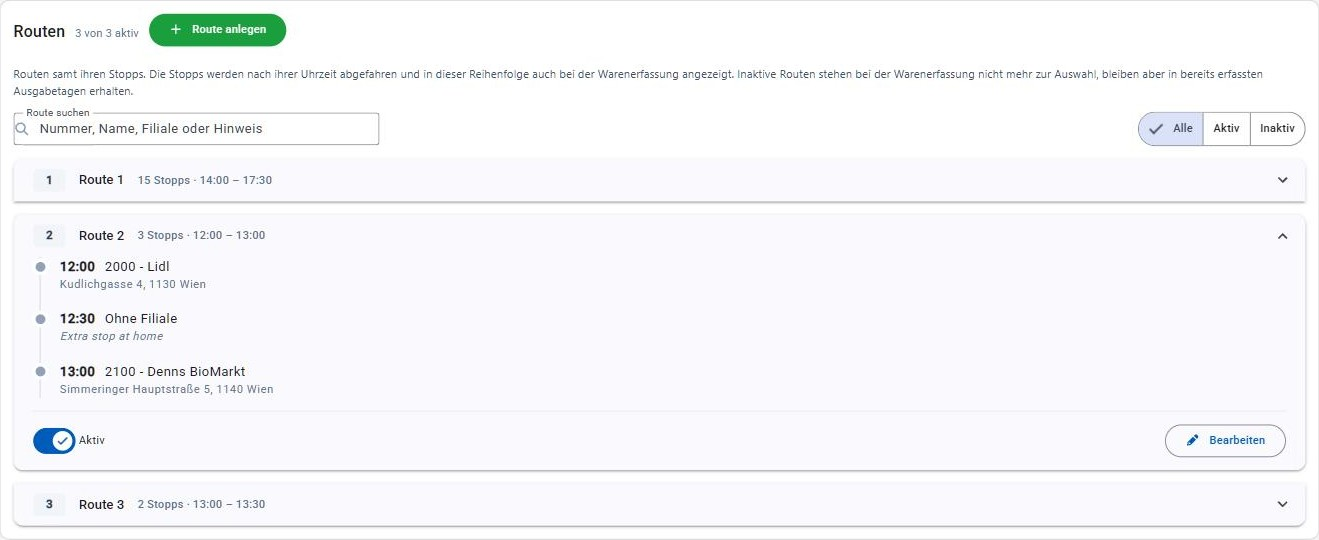
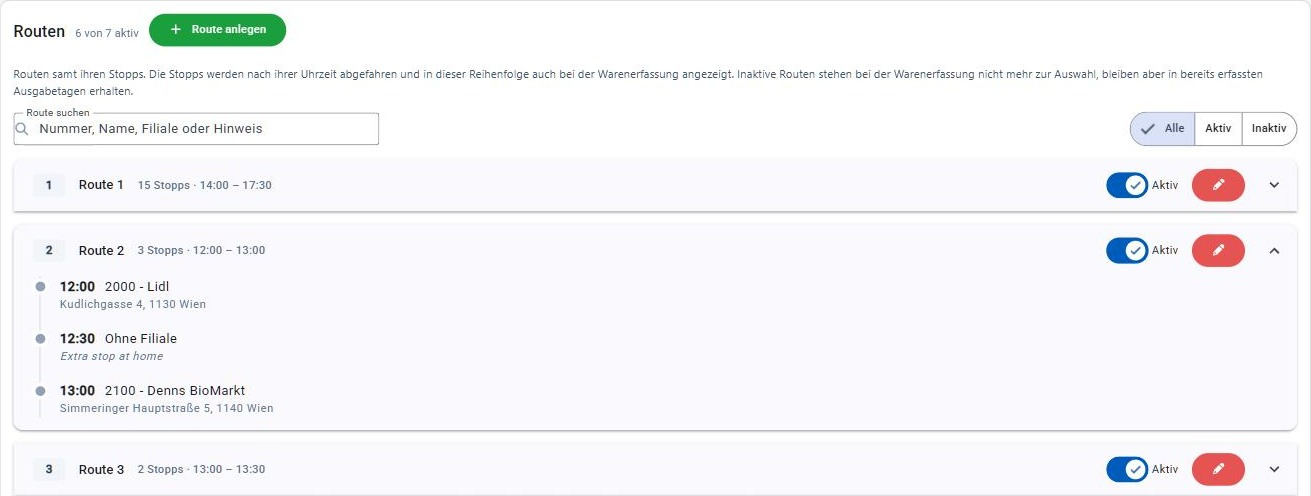
feat(settings): move the aktiv toggle and edit button into the list header
Both actions were in the expanded panel's action row, which meant expanding a
route or shop just to switch or edit it. They now sit at the right end of the
row itself, so the panel only has to be opened to read the details; the edit
button uses the filled red styling of the other maintenance screens.

The header treats any click or keydown inside it as "toggle the panel", so the
two controls are wrapped in a stopPropagation container.

diff --git a/frontend/src/main/webapp/src/app/modules/settings/views/routes/settings-routes.component.html b/frontend/src/main/webapp/src/app/modules/settings/views/routes/settings-routes.component.html
@@ -60,6 +60,20 @@
                 @if (!view.route.enabled) {
                   <span class="badge badge-danger" testid="routes-inactive-badge">Inaktiv</span>
                 }
+                <!-- both actions stay reachable without expanding the route first - the panel
+                     header would otherwise swallow the click and toggle the panel instead -->
+                <span class="ms-auto me-2 flex items-center gap-4" (click)="$event.stopPropagation()"
+                      (keydown)="$event.stopPropagation()">
+                  <mat-slide-toggle [checked]="view.route.enabled" [attr.testid]="'routes-enabled-toggle-' + i"
+                                    (change)="onEnabledToggled(view.route, $event)">
+                    Aktiv
+                  </mat-slide-toggle>
+                  <button matButton="filled" class="button-danger" [attr.testid]="'editRouteButton-' + i"
+                          [disabled]="!view.route.enabled" aria-label="Route bearbeiten"
+                          (click)="editRoute(view.route)">
+                    <fa-icon [icon]="faPencil"></fa-icon>
+                  </button>
+                </span>
               </div>
             </mat-panel-title>
           </mat-expansion-panel-header>
@@ -93,22 +107,11 @@
             <p class="text-sm italic text-slate-500">Keine Stopps hinterlegt</p>
           }
 
-          <div class="mt-4 flex flex-wrap items-center justify-between gap-3 border-t border-slate-200 pt-4">
-            <mat-slide-toggle [checked]="view.route.enabled" [attr.testid]="'routes-enabled-toggle-' + i"
-                              (change)="onEnabledToggled(view.route, $event)">
-              Aktiv
-            </mat-slide-toggle>
-            <div class="flex flex-wrap items-center gap-3">
-              @if (!view.route.enabled) {
-                <span class="text-sm text-slate-500">Zum Bearbeiten zuerst aktivieren</span>
-              }
-              <button matButton="outlined" [attr.testid]="'editRouteButton-' + i"
-                      [disabled]="!view.route.enabled" (click)="editRoute(view.route)">
-                <fa-icon [icon]="faPencil" class="me-2"></fa-icon>
-                Bearbeiten
-              </button>
-            </div>
-          </div>
+          @if (!view.route.enabled) {
+            <p class="mt-4 border-t border-slate-200 pt-4 text-sm text-slate-500">
+              Zum Bearbeiten zuerst aktivieren
+            </p>
+          }
         </mat-expansion-panel>
       } @empty {
         @if (loaded()) {

diff --git a/frontend/src/main/webapp/src/app/modules/settings/views/shops/settings-shops.component.html b/frontend/src/main/webapp/src/app/modules/settings/views/shops/settings-shops.component.html
@@ -59,6 +59,20 @@
                 @if (!view.shop.enabled) {
                   <span class="badge badge-danger" testid="shops-inactive-badge">Inaktiv</span>
                 }
+                <!-- both actions stay reachable without expanding the shop first - the panel
+                     header would otherwise swallow the click and toggle the panel instead -->
+                <span class="ms-auto me-2 flex items-center gap-4" (click)="$event.stopPropagation()"
+                      (keydown)="$event.stopPropagation()">
+                  <mat-slide-toggle [checked]="view.shop.enabled" [attr.testid]="'shops-enabled-toggle-' + i"
+                                    (change)="onEnabledToggled(view.shop, $event)">
+                    Aktiv
+                  </mat-slide-toggle>
+                  <button matButton="filled" class="button-danger" [attr.testid]="'editShopButton-' + i"
+                          [disabled]="!view.shop.enabled" aria-label="Filiale bearbeiten"
+                          (click)="editShop(view.shop)">
+                    <fa-icon [icon]="faPencil"></fa-icon>
+                  </button>
+                </span>
               </div>
             </mat-panel-title>
           </mat-expansion-panel-header>
@@ -102,22 +116,11 @@
             </div>
           }
 
-          <div class="mt-4 flex flex-wrap items-center justify-between gap-3 border-t border-slate-200 pt-4">
-            <mat-slide-toggle [checked]="view.shop.enabled" [attr.testid]="'shops-enabled-toggle-' + i"
-                              (change)="onEnabledToggled(view.shop, $event)">
-              Aktiv
-            </mat-slide-toggle>
-            <div class="flex flex-wrap items-center gap-3">
-              @if (!view.shop.enabled) {
-                <span class="text-sm text-slate-500">Zum Bearbeiten zuerst aktivieren</span>
-              }
-              <button matButton="outlined" [attr.testid]="'editShopButton-' + i"
-                      [disabled]="!view.shop.enabled" (click)="editShop(view.shop)">
-                <fa-icon [icon]="faPencil" class="me-2"></fa-icon>
-                Bearbeiten
-              </button>
-            </div>
-          </div>
+          @if (!view.shop.enabled) {
+            <p class="mt-4 border-t border-slate-200 pt-4 text-sm text-slate-500">
+              Zum Bearbeiten zuerst aktivieren
+            </p>
+          }
         </mat-expansion-panel>
       } @empty {
         @if (loaded()) {

diff --git a/frontend/src/main/webapp/cypress/e2e/settings-routes.cy.ts b/frontend/src/main/webapp/cypress/e2e/settings-routes.cy.ts
@@ -32,10 +32,6 @@ describe('Settings - Routes', () => {
     return cy.byTestId('routes-list').contains('mat-expansion-panel', name);
   }
 
-  function expandRoute(name: string) {
-    routePanel(name).find('mat-expansion-panel-header').click();
-  }
-
   it('lists routes with their stop summary', () => {
     cy.byTestId('routes-list').should('exist');
     cy.byTestId('routes-row-0').should('contain.text', 'Route 1').and('contain.text', 'Stopps');
@@ -90,8 +86,9 @@ describe('Settings - Routes', () => {
       createRoute(name, '90.3', ['10:00', '10:30']);
       cy.contains('.toast-message', 'erstellt').should('be.visible');
 
-      expandRoute(name);
+      // the edit button sits in the collapsed header, so editing needs no expanding
       routePanel(name).find('[testid^="editRouteButton-"]').click();
+      cy.byTestId('route-edit-dialog').should('be.visible');
       cy.byTestId('route-name-input').should('be.visible').clear().type(newName);
       cy.byTestId('route-stop-remove-button-1').click();
       cy.byTestId('route-save-button').click();
@@ -108,7 +105,7 @@ describe('Settings - Routes', () => {
       createRoute(name, '90.4', ['11:00']);
       cy.contains('.toast-message', 'erstellt').should('be.visible');
 
-      expandRoute(name);
+      // the toggle sits in the collapsed header next to the edit button
       routePanel(name).find('[testid^="routes-enabled-toggle-"]').click();
       cy.contains('.toast-message', 'geändert').should('be.visible');
 

diff --git a/frontend/src/main/webapp/cypress/e2e/settings-shops.cy.ts b/frontend/src/main/webapp/cypress/e2e/settings-shops.cy.ts
@@ -33,10 +33,6 @@ describe('Settings - Shops', () => {
     return cy.byTestId('shops-list').contains('mat-expansion-panel', name);
   }
 
-  function expandShop(name: string) {
-    shopPanel(name).find('mat-expansion-panel-header').click();
-  }
-
   it('lists shops with their address and unit', () => {
     cy.byTestId('shops-list').should('exist');
     cy.byTestId('shops-row-0').should('contain.text', 'Billa').and('contain.text', 'Kisten');
@@ -92,8 +88,9 @@ describe('Settings - Shops', () => {
       createShop(name, shopNumber(randomId));
       cy.contains('.toast-message', 'erstellt').should('be.visible');
 
-      expandShop(name);
+      // the edit button sits in the collapsed header, so editing needs no expanding
       shopPanel(name).find('[testid^="editShopButton-"]').click();
+      cy.byTestId('shop-edit-dialog').should('be.visible');
       cy.byTestId('shop-name-input').should('be.visible').clear().type(newName);
       cy.byTestId('shop-save-button').click();
 
@@ -109,7 +106,7 @@ describe('Settings - Shops', () => {
       createShop(name, shopNumber(randomId));
       cy.contains('.toast-message', 'erstellt').should('be.visible');
 
-      expandShop(name);
+      // the toggle sits in the collapsed header next to the edit button
       shopPanel(name).find('[testid^="shops-enabled-toggle-"]').click();
       cy.contains('.toast-message', 'geändert').should('be.visible');
 

diff --git a/docs/userguide/einstellungen.md b/docs/userguide/einstellungen.md
@@ -76,7 +76,7 @@ Die **Nummer** muss eindeutig sein; ist sie bereits vergeben, erscheint beim Spe
 
 ![Filialen](images/einstellungen-filialen.jpg)
 
-In der aufgeklappten Zeile wird die Filiale über den Schalter **Aktiv** aktiviert/deaktiviert und über **Bearbeiten** geändert. Eine deaktivierte Filiale steht in der Warenerfassung nicht mehr zur Auswahl, bleibt aber in bereits erfassten Ausgabetagen erhalten — deshalb gibt es bewusst keine Löschfunktion. Sie ist in der Liste als "Inaktiv" gekennzeichnet und kann erst wieder bearbeitet werden, nachdem sie reaktiviert wurde (der Bearbeiten-Button ist so lange deaktiviert).
+Rechts in jeder Zeile stehen der Schalter **Aktiv** zum Aktivieren/Deaktivieren und der **Stift-Button**, der den Bearbeiten-Dialog öffnet — dafür muss die Filiale nicht aufgeklappt werden. Eine deaktivierte Filiale steht in der Warenerfassung nicht mehr zur Auswahl, bleibt aber in bereits erfassten Ausgabetagen erhalten — deshalb gibt es bewusst keine Löschfunktion. Sie ist in der Liste als "Inaktiv" gekennzeichnet und kann erst wieder bearbeitet werden, nachdem sie reaktiviert wurde (der Bearbeiten-Button ist so lange deaktiviert).
 
 <a id="routen"></a>
 
@@ -88,7 +88,7 @@ Jede Route ist eine eigene Zeile, die sich aufklappen lässt: zugeklappt zeigt s
 
 ![Routen](images/einstellungen-routen.jpg)
 
-In der aufgeklappten Zeile wird die Route über den Schalter **Aktiv** aktiviert/deaktiviert und über **Bearbeiten** geändert. Im Bearbeiten-Dialog wird über **Stopp hinzufügen** je Stopp eine **Uhrzeit**, eine **Filiale** und eine **Beschreibung** erfasst; das Papierkorb-Symbol entfernt einen Stopp wieder. Die Uhrzeit bestimmt die Reihenfolge der Stopps — sowohl in der Routenliste als auch in der [Warenerfassung](logistik.md); eine eigene Sortierung per Drag & Drop gibt es hier daher nicht. Zur Auswahl stehen alle aktiven [Filialen](#filialen); mit "Keine Filiale" lässt sich auch ein Stopp ohne Warenabholung (z. B. eine Pause) eintragen — er wird in der Liste als "Ohne Filiale" geführt.
+Rechts in jeder Zeile stehen — wie bei den [Filialen](#filialen) — der Schalter **Aktiv** und der **Stift-Button**, der den Bearbeiten-Dialog öffnet; dafür muss die Route nicht aufgeklappt werden. Im Bearbeiten-Dialog wird über **Stopp hinzufügen** je Stopp eine **Uhrzeit**, eine **Filiale** und eine **Beschreibung** erfasst; das Papierkorb-Symbol entfernt einen Stopp wieder. Die Uhrzeit bestimmt die Reihenfolge der Stopps — sowohl in der Routenliste als auch in der [Warenerfassung](logistik.md); eine eigene Sortierung per Drag & Drop gibt es hier daher nicht. Zur Auswahl stehen alle aktiven [Filialen](#filialen); mit "Keine Filiale" lässt sich auch ein Stopp ohne Warenabholung (z. B. eine Pause) eintragen — er wird in der Liste als "Ohne Filiale" geführt.
 
 ![Routen-Stopps](images/einstellungen-routen-stopps.jpg)
 

diff --git a/frontend/src/main/webapp/src/app/modules/settings/README.md b/frontend/src/main/webapp/src/app/modules/settings/README.md
@@ -234,12 +234,15 @@ Both follow the same shape, and a change to one usually belongs in the other:
 - **Search + status filter.** A `FormControl` fed through `toSignal()` and an `enabledFilter`
   signal (`EnabledFilter` from `views/enabled-filter.ts`) drive a `visibleShops()`/`visibleRoutes()`
   `computed()`. Filtering is purely client-side; both endpoints return the full list anyway.
-- **Enabling/disabling** happens with a `mat-slide-toggle` in the panel body's action row rather
-  than in the header — a control nested inside the header's `role="button"` would swallow clicks
-  meant for the panel and is a nested-interactive-element a11y problem. On a failed update the list
-  is reloaded, because the toggle has already moved on its own and only fresh data puts it back.
+- **Enabling/disabling** happens with a `mat-slide-toggle`. On a failed update the list is
+  reloaded, because the toggle has already moved on its own and only fresh data puts it back.
 - **Editing** stays dialog-based (`shop-edit-dialog`, `route-edit-dialog`), and the edit button is
   disabled while the record is inactive, same convention as cars/food-categories.
+- **Both controls sit in the panel header**, not in the expanded body, so a record can be switched
+  or edited without expanding it first. That needs `(click)`/`(keydown)` `stopPropagation()` on
+  their wrapper, since the header treats both events as "toggle the panel" — anything else added
+  there needs the same. It is also a nested-interactive-element a11y compromise (controls inside
+  the header's `role="button"`), which is why it stays limited to these two actions.
 - `route-edit-dialog` manages the stops as a nested `stops: FormArray` of
   `{ time, shopId, description }` with `addStop()`/`removeStop()` plus manual
   `ChangeDetectorRef.detectChanges()` calls, structurally the twin of `shelter-edit-dialog`'s
